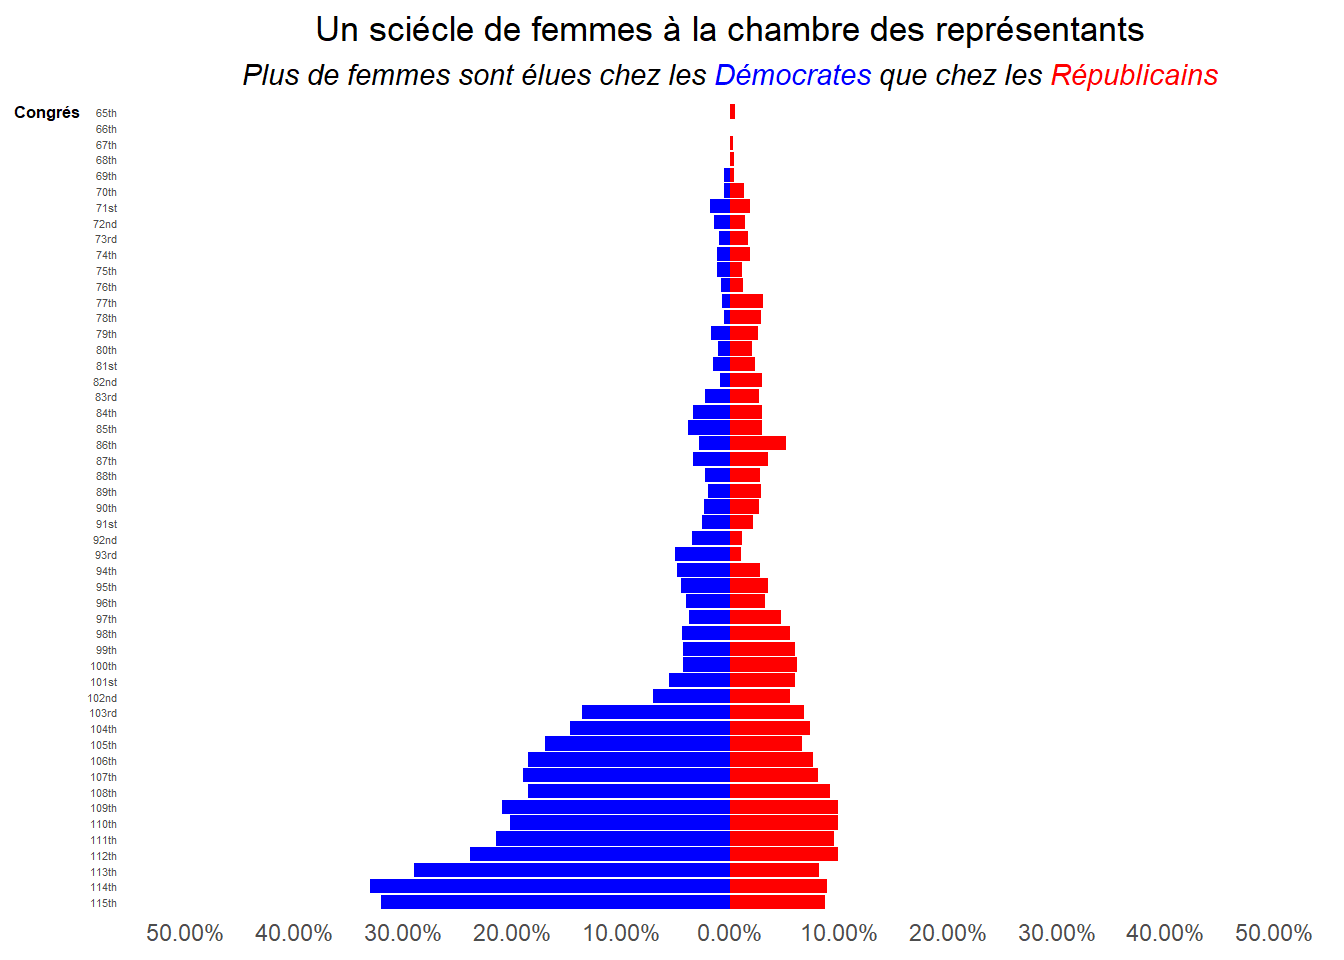
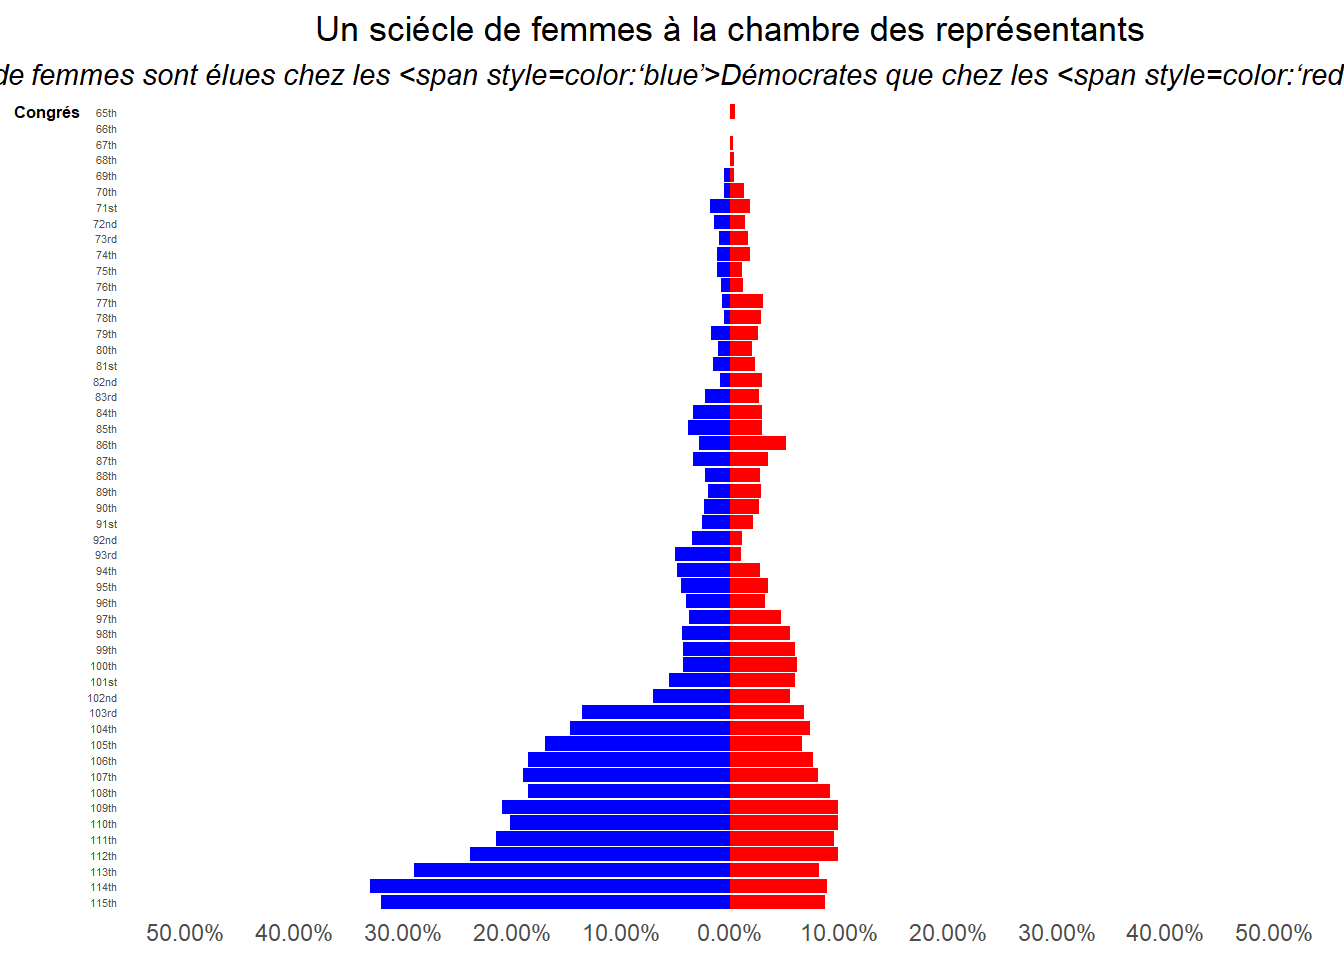
tag gt 4

Changed region(s): [[0.0, 0.0625, 1.0, 0.0938]]

diff --git a/content/post/2021-12-13-le-diagramme-b-tons-divergeant-gt4/index.html b/content/post/2021-12-13-le-diagramme-b-tons-divergeant-gt4/index.html
@@ -2,16 +2,16 @@
 title: Le diagramme à bâtons divergents GT4
 author: Ludovic Vigneron
 date: '2021-12-13'
-slug: []
 categories:
   - datavisualisation
   - R
+  - GT
 tags:
   - Dataviz
   - GGPLOT2
+  - GT
 ---
 
-<script src="{{< blogdown/postref >}}index_files/header-attrs/header-attrs.js"></script>
 
 
 <p><strong>Intéressons-nous, pour ce quatrième post de la série GT, à une autre manière d’illustrer des différences en deux groupes pour une variables catégorielles: le diagramme à bâtons divergents (diverging bars chart). Celui-ci est également connu sous d’autres noms comme le diagramme en tornade ou en papillon. Il consiste à adosser des diagrammes à bâtons représentant la variable étudiée, un pour chacun des deux groupes impliqués dans la comparaison. Le repaire utilisé prend la forme d’un T inversé avec comme axe central l’origine des barres. Cela change par rapport aux représentations vues précédemment qui utilisent le classique repaire en L. L’étendue des valeurs présentées sur l’axe horizontal de chaque coté correspond généralement (sauf si une autre valeur à plus de sens) au maximum de la variable représentée (de la fréquence de la modalité) sur les deux groupes. L’étude de la forme des diagrammes de chaque coté de l’axe centrale (le degré de symétrie) permet de comprendre les similarités ou différence entre les groupes.</strong></p>
@@ -25,21 +25,22 @@ library(ggtext)</code></pre>
 <p>Ceci fait, chargeons les données et regardons ce que la base contient avant commencer le travail.</p>
 <pre class="r"><code>dat &lt;- read_excel(&quot;Women in the House of Representatives.xlsx&quot;)
 dat</code></pre>
-<pre><code>## # A tibble: 51 x 9
-##    Congress Years     `Women total` Republican `% of women (Re~ `% of party (Re~
-##    &lt;chr&gt;    &lt;chr&gt;             &lt;dbl&gt;      &lt;dbl&gt;            &lt;dbl&gt;            &lt;dbl&gt;
-##  1 65th     1917–1919             1          1            1                0.005
-##  2 66th     1919–1921             0          0            0                0    
-##  3 67th     1921–1923             3          3            1                0.003
-##  4 68th     1923–1925             1          1            1                0.004
-##  5 69th     1925–1927             3          2            0.667            0.004
-##  6 70th     1927–1929             5          3            0.6              0.013
-##  7 71st     1929–1931             9          5            0.556            0.019
-##  8 72nd     1931–1933             7          3            0.429            0.014
-##  9 73rd     1933–1935             7          3            0.429            0.017
-## 10 74th     1935–1937             6          2            0.333            0.019
-## # ... with 41 more rows, and 3 more variables: Democratic &lt;dbl&gt;,
-## #   % of women (Dem) &lt;dbl&gt;, % of party (Dem) &lt;dbl&gt;</code></pre>
+<pre><code>## # A tibble: 51 × 9
+##    Congress Years     Women to…¹ Repub…² % of …³ % of …⁴ Democ…⁵ % of …⁶ % of …⁷
+##    &lt;chr&gt;    &lt;chr&gt;          &lt;dbl&gt;   &lt;dbl&gt;   &lt;dbl&gt;   &lt;dbl&gt;   &lt;dbl&gt;   &lt;dbl&gt;   &lt;dbl&gt;
+##  1 65th     1917–1919          1       1   1       0.005       0   0       0    
+##  2 66th     1919–1921          0       0   0       0           0   0       0    
+##  3 67th     1921–1923          3       3   1       0.003       0   0       0    
+##  4 68th     1923–1925          1       1   1       0.004       0   0       0    
+##  5 69th     1925–1927          3       2   0.667   0.004       1   0.333   0.005
+##  6 70th     1927–1929          5       3   0.6     0.013       2   0.4     0.005
+##  7 71st     1929–1931          9       5   0.556   0.019       4   0.444   0.018
+##  8 72nd     1931–1933          7       3   0.429   0.014       4   0.571   0.014
+##  9 73rd     1933–1935          7       3   0.429   0.017       4   0.571   0.01 
+## 10 74th     1935–1937          6       2   0.333   0.019       4   0.667   0.012
+## # … with 41 more rows, and abbreviated variable names ¹`Women total`,
+## #   ²Republican, ³`% of women (Rep)`, ⁴`% of party (Rep)`, ⁵Democratic,
+## #   ⁶`% of women (Dem)`, ⁷`% of party (Dem)`</code></pre>
 <p>On 51 observations (une par congrès entre 1917 et 2019) sur 9 variables. Elles présentent pour chaque congrès et pour les deux grands parties aux Etats-Unis le nombre de femmes élues à la chambre des représentants, ainsi que leur proportion d’élus et parmi eux la proportion de femmes. C’est de dernier élément qui va nous intéresser. Nous allons établir une illustration permettant de comparer sur les différentes mandatures la proportion de femmes parmi les élus de chaque partie. L’idée est de documenter la féminisation de la vie politique aux Etats-Unis sur un siècle en comparant les Républicains et les Démocrates.</p>
 <p>Commençons par dresser un diagramme à bâtons de la proportion de femmes parmi les élus pour chaque parti. Prenons d’abord les républicains.</p>
 <pre class="r"><code>ggplot(data=dat,aes(x=Congress,y=`% of party (Rep)`))+
@@ -98,7 +99,7 @@ dat</code></pre>
                names_to = &#39;parti&#39;) %&gt;% 
   mutate(partie=ifelse(parti==&#39;% of party (Rep)&#39;,&#39;Républicains&#39;,&#39;Démocrates&#39;))
 dat_</code></pre>
-<pre><code>## # A tibble: 102 x 4
+<pre><code>## # A tibble: 102 × 4
 ##    Congress parti            pr_fem partie      
 ##    &lt;fct&gt;    &lt;chr&gt;             &lt;dbl&gt; &lt;chr&gt;       
 ##  1 65th     % of party (Rep)  0.005 Républicains
@@ -111,7 +112,7 @@ dat_</code></pre>
 ##  8 68th     % of party (Dem)  0     Démocrates  
 ##  9 69th     % of party (Rep)  0.004 Républicains
 ## 10 69th     % of party (Dem)  0.005 Démocrates  
-## # ... with 92 more rows</code></pre>
+## # … with 92 more rows</code></pre>
 <p>Ceci fait. Allons-y pour le graphe. Changeons le titre pour quelque chose de plus global puis intégrons <strong>facet_grid(.~parti)</strong> sans oublié de s’assurer que les couleurs seront maintenues (fill et <strong>scale_fill_manual()</strong>).</p>
 <pre class="r"><code>ggplot(data=dat_,aes(x=Congress,y=pr_fem,fill=parti))+
   geom_bar(stat=&#39;identity&#39;)+
@@ -211,5 +212,7 @@ ggplot(data=dat_,aes(x=Congress,y=pr_fem,fill=part))+
         axis.text.y = element_text(size=4),
         panel.grid = element_blank(),
         legend.position=&#39;none&#39;)</code></pre>
+<pre><code>## Warning: Using `size` aesthetic for lines was deprecated in ggplot2 3.4.0.
+## ℹ Please use `linewidth` instead.</code></pre>
 <p><img src="{{< blogdown/postref >}}index_files/figure-html/unnamed-chunk-14-1.png" width="672" /></p>
 <p>Le graphe obtenu est à la fois simple, rigoureux et parlant. C’est ce que l’on recherche lorsque l’on fait de la datavisualisation. Cela donne un aperçu des possibilités qu’offre les diagrammes à bâtons divergents. Ici, la valeur centrale est 0 (aucune femme au congrès pour parti, 0%). Même si ce n’est pas le cas pour le graphe que nous venons de faire, il peut parfois être plus parlant de travailler avec une autre référence (la moyenne, la médiane, ou autres établis sur un groupe qui sert à la mise en perspective). Celle-ci sert alors d’élément marquant la séparation entre les groupes comparés et de base à la divergence des barres. Nous y reviendrons sûrement dans un prochain post pour illustrer la procédure.</p>
